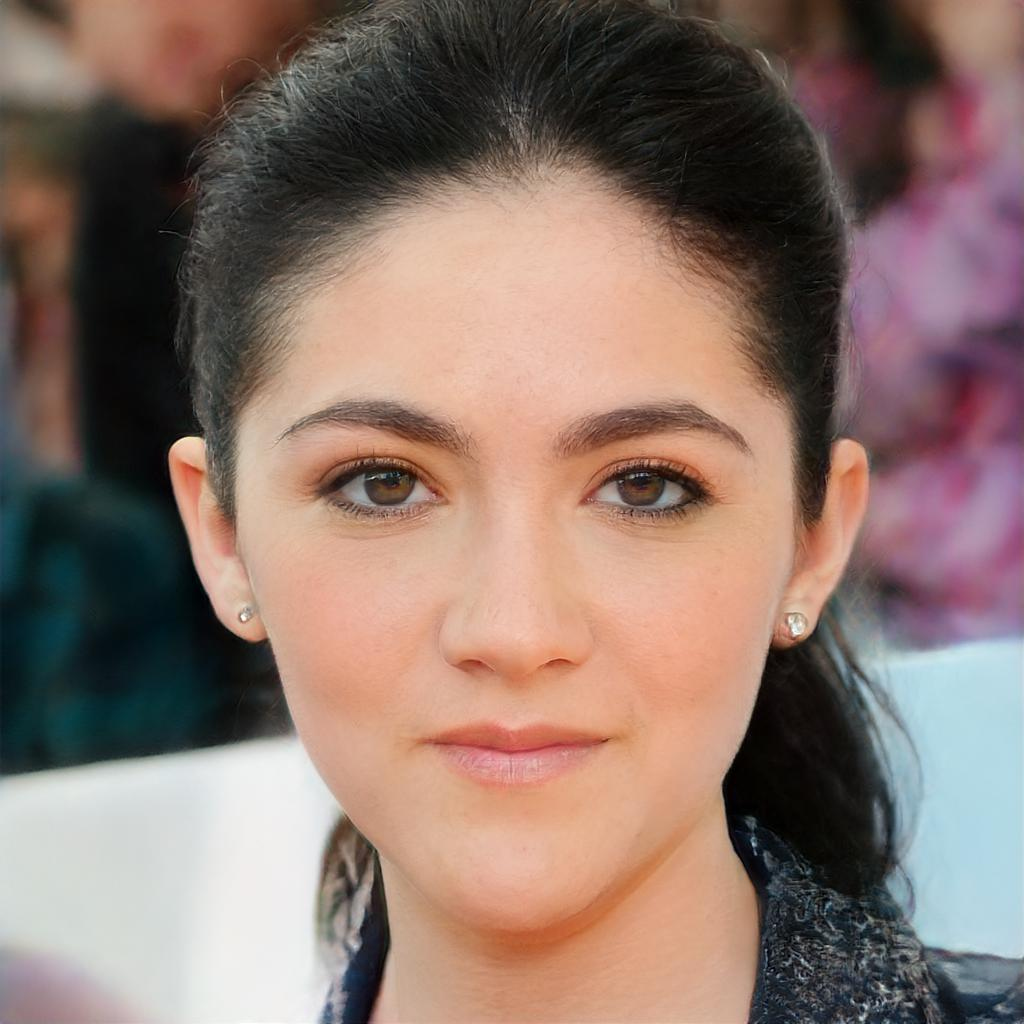
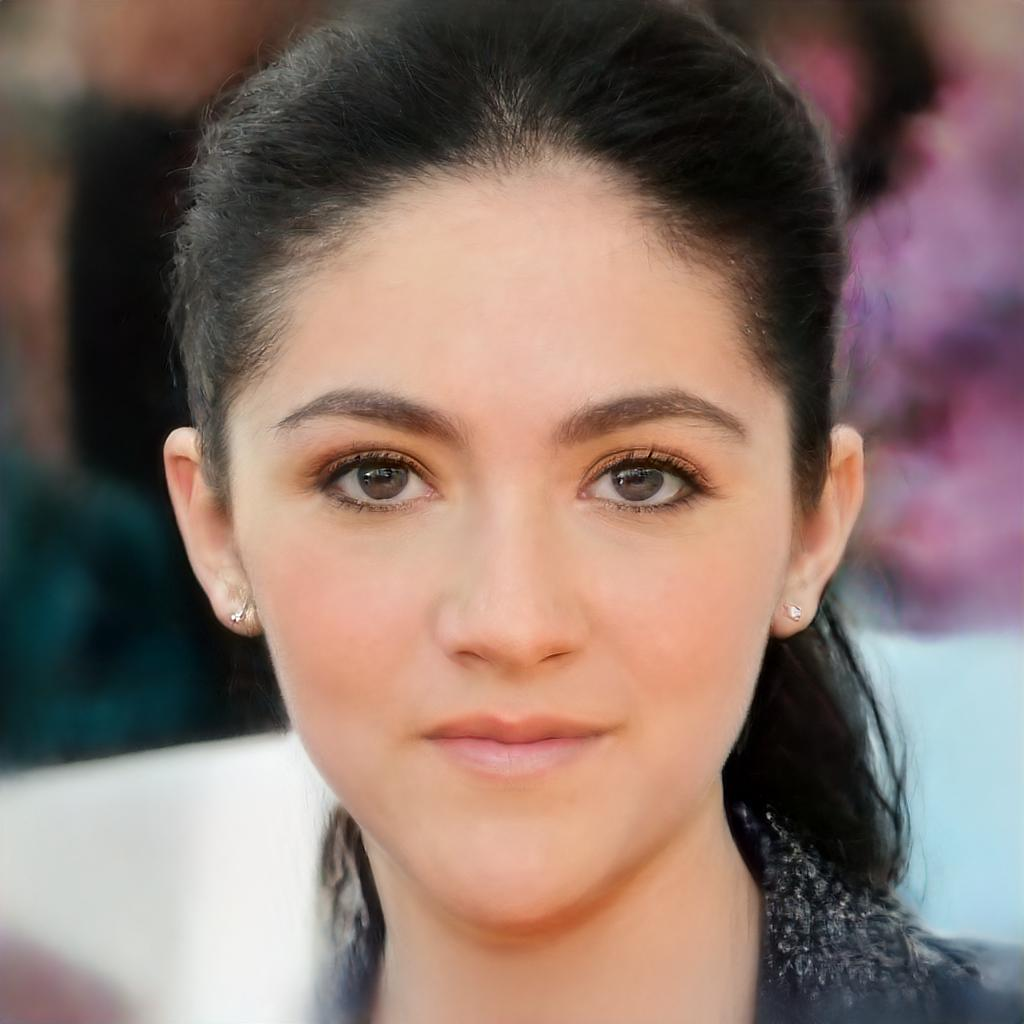
done with demo flow

diff --git a/demo.py b/demo.py
@@ -1,0 +1,26 @@
+from gender_detector import get_gender
+import os 
+import argparse
+prompt_bank = {'Woman': 'red lipstick with pink eyeshadows', 'Man': 'no makeup'}
+
+# get img path from args
+parser = argparse.ArgumentParser(description="CLIP2Protect")
+parser.add_argument('--image_path', type=str, default='047073.jpg', help='The input image')
+args = parser.parse_args()
+image_path = args.image_path
+# get gender
+gender = get_gender(image_path)
+current_prompt = prompt_bank[gender]
+
+# copy img to a folder
+os.system('rm -rf auto_input_images')
+os.system('mkdir -p auto_input_images')
+os.system(f'cp {image_path} auto_input_images')
+
+# run get latent 
+os.system('bash infer_part1.sh')
+
+
+# choose prompt and run main.py (go into this script) 
+os.system(f'python main.py --data_dir auto_input_images --latent_path auto_ouput_images/latents.pt --protected_face_dir results --makeup_prompt "{current_prompt}"')
+

diff --git a/gender_detector/gender_detector.py b/gender_detector/gender_detector.py
@@ -1,0 +1,13 @@
+from deepface import DeepFace
+
+def get_gender(img_path, shorten=True):
+    result = DeepFace.analyze(img_path = img_path,
+        actions = ['gender']
+    )
+    if not shorten:
+        return result
+    else:
+        return result[0]['dominant_gender']
+
+if __name__ == '__main__':
+    print(get_gender('047073.jpg'))

diff --git a/gender_detector/__init__.py b/gender_detector/__init__.py
@@ -1,0 +1,1 @@
+from .gender_detector import get_gender
